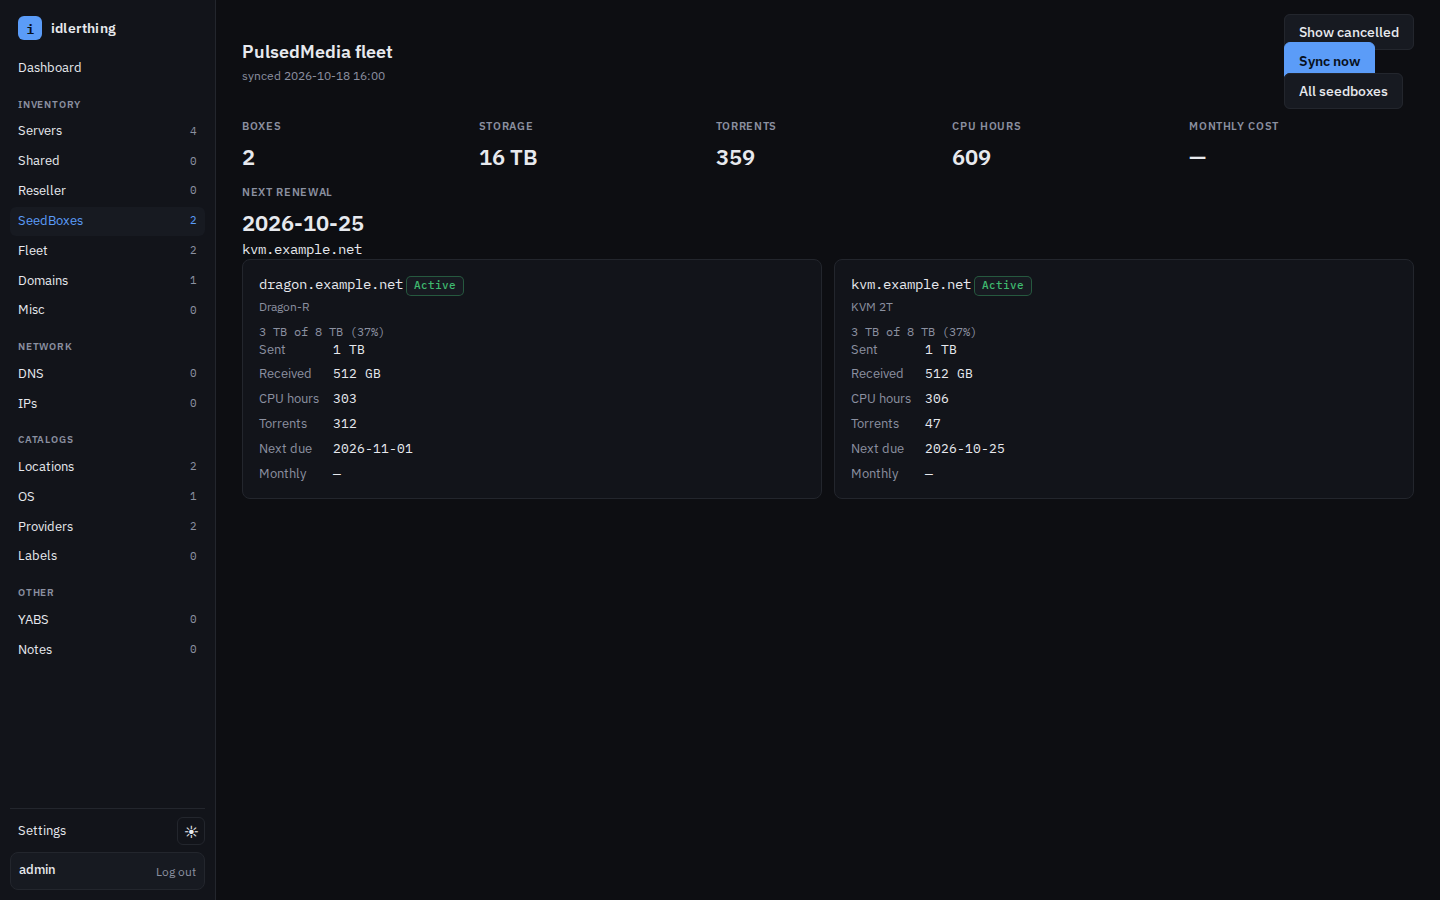
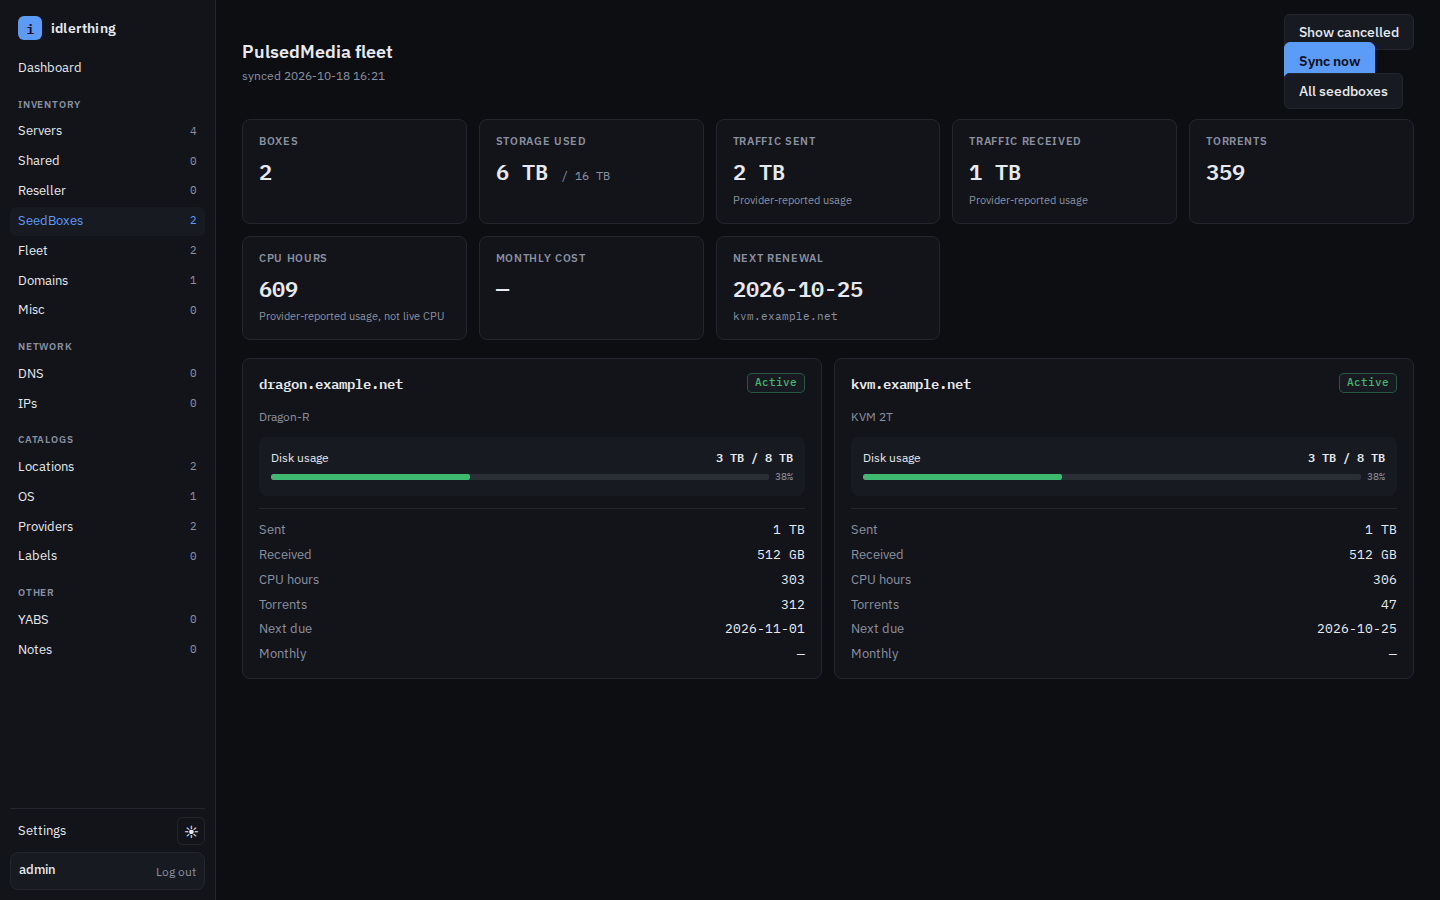
Improve provider fleet usage overview

diff --git a/internal/web/assets/templates/seedbox_fleet.html b/internal/web/assets/templates/seedbox_fleet.html
@@ -50,28 +50,30 @@ along with this program. If not, see <https://www.gnu.org/licenses/>.
 </div>
 {{else}}
 
-<div class="stat-grid">
-  <div class="stat"><div class="stat-label">Boxes</div><div class="stat-value">{{$v.Totals.Boxes}}</div></div>
-  <div class="stat"><div class="stat-label">Storage</div><div class="stat-value">{{fmtMB $v.Totals.StorageMB}}</div></div>
-  <div class="stat"><div class="stat-label">Torrents</div><div class="stat-value">{{$v.Totals.Torrents}}</div></div>
-  <div class="stat"><div class="stat-label">CPU hours</div><div class="stat-value">{{$v.Totals.CPUHours}}</div></div>
-  <div class="stat">
+<div class="stat-grid fleet-stats">
+  <div class="stat-card"><div class="stat-label">Boxes</div><div class="stat-value mono">{{$v.Totals.Boxes}}</div></div>
+  <div class="stat-card"><div class="stat-label">Storage used</div><div class="stat-value mono">{{fmtMB $v.Totals.StorageUsedMB}} <small>/ {{fmtMB $v.Totals.StorageMB}}</small></div></div>
+  <div class="stat-card"><div class="stat-label">Traffic sent</div><div class="stat-value mono">{{fmtMB $v.Totals.SentMB}}</div><div class="stat-sub">Provider-reported usage</div></div>
+  <div class="stat-card"><div class="stat-label">Traffic received</div><div class="stat-value mono">{{fmtMB $v.Totals.ReceivedMB}}</div><div class="stat-sub">Provider-reported usage</div></div>
+  <div class="stat-card"><div class="stat-label">Torrents</div><div class="stat-value mono">{{$v.Totals.Torrents}}</div></div>
+  <div class="stat-card"><div class="stat-label">CPU hours</div><div class="stat-value mono">{{$v.Totals.CPUHours}}</div><div class="stat-sub">Provider-reported usage, not live CPU</div></div>
+  <div class="stat-card">
     <div class="stat-label">Monthly cost</div>
-    <div class="stat-value">{{if $v.Totals.MonthlyUSD}}${{printf "%.2f" $v.Totals.MonthlyUSD}}{{else}}—{{end}}</div>
+    <div class="stat-value mono">{{if $v.Totals.MonthlyUSD}}${{printf "%.2f" $v.Totals.MonthlyUSD}}{{else}}—{{end}}</div>
   </div>
-  <div class="stat">
+  <div class="stat-card">
     <div class="stat-label">Next renewal</div>
-    <div class="stat-value">{{if $v.Totals.NextDue}}{{$v.Totals.NextDue}}{{else}}—{{end}}</div>
+    <div class="stat-value mono">{{if $v.Totals.NextDue}}{{$v.Totals.NextDue}}{{else}}—{{end}}</div>
     {{if $v.Totals.NextDueBox}}<div class="stat-sub mono">{{$v.Totals.NextDueBox}}</div>{{end}}
   </div>
 </div>
 
 {{if $v.Boxes}}
-<div class="card-grid">
+<div class="card-grid fleet-grid">
   {{range $v.Boxes}}
-  <div class="panel fleet-card{{if .Cancelled}} is-muted{{end}}">
+  <article class="panel fleet-card{{if .Cancelled}} is-muted{{end}}">
     <div class="fleet-card-head">
-      <span class="mono">{{.Hostname}}</span>
+      <strong class="mono fleet-host">{{.Hostname}}</strong>
       {{if .Cancelled}}
       <span class="badge badge-off">cancelled</span>
       {{else if .Status}}
@@ -80,18 +82,14 @@ along with this program. If not, see <https://www.gnu.org/licenses/>.
     </div>
     <div class="page-sub">{{if .Product}}{{.Product}}{{else}}—{{end}}</div>
 
-    {{if .HasQuota}}
-    <div class="meter" role="img" aria-label="disk {{.DiskPct}}% used">
-      <div class="meter-fill" style="width: {{if gt .DiskPct 100}}100{{else}}{{.DiskPct}}{{end}}%"></div>
+    <div class="fleet-storage">
+      <div class="fleet-storage-head"><span>Disk usage</span><strong class="mono">{{if .HasQuota}}{{fmtMB .DiskUsedMB}} / {{fmtMB .DiskQuotaMB}}{{else if .DiskUsedMB}}{{fmtMB .DiskUsedMB}} used{{else}}no quota reported{{end}}</strong></div>
+      {{if .DiskMeter}}
+      <div role="img" aria-label="Disk usage {{.DiskPct}}% used">{{template "meter" .DiskMeter}}</div>
+      {{end}}
     </div>
-    <div class="mono page-sub">{{fmtMB .DiskUsedMB}} of {{fmtMB .DiskQuotaMB}} ({{.DiskPct}}%)</div>
-    {{else if .DiskUsedMB}}
-    <div class="mono page-sub">{{fmtMB .DiskUsedMB}} used</div>
-    {{else}}
-    <div class="page-sub">no quota reported</div>
-    {{end}}
 
-    <dl class="kv">
+    <dl class="kv fleet-metrics">
       <dt>Sent</dt><dd class="mono">{{.Sent}}</dd>
       <dt>Received</dt><dd class="mono">{{.Received}}</dd>
       <dt>CPU hours</dt><dd class="mono">{{.CPUHours}}</dd>
@@ -99,7 +97,7 @@ along with this program. If not, see <https://www.gnu.org/licenses/>.
       <dt>Next due</dt><dd class="mono">{{if .NextDue}}{{.NextDue}}{{else}}—{{end}}</dd>
       <dt>Monthly</dt><dd class="mono">{{if .Monthly}}{{.Monthly}}{{else}}—{{end}}</dd>
     </dl>
-  </div>
+  </article>
   {{end}}
 </div>
 {{else}}

diff --git a/internal/web/assets/static/app.css b/internal/web/assets/static/app.css
@@ -281,6 +281,21 @@ h1 { font-size: 18px; font-weight: 600; margin: 0; }
 }
 .stat-value { font-size: 22px; font-weight: 600; }
 
+/* Provider fleet: reuse the app's stat cards and CSP-safe meters. */
+.fleet-stats { margin-bottom: 18px; }
+.fleet-stats .stat-value small { font-size: 12px; color: var(--mut); font-weight: 400; }
+.stat-sub { margin-top: 5px; font-size: 11px; color: var(--mut); }
+.fleet-grid { grid-template-columns: repeat(auto-fit, minmax(min(340px, 100%), 1fr)); }
+.fleet-card { display: grid; gap: 12px; min-width: 0; }
+.fleet-card.is-muted { opacity: .7; }
+.fleet-card-head { display: flex; align-items: flex-start; justify-content: space-between; gap: 8px; }
+.fleet-host { overflow-wrap: anywhere; }
+.fleet-storage { padding: 12px; background: var(--panel2); border-radius: var(--radius); }
+.fleet-storage-head { display: flex; justify-content: space-between; gap: 8px; flex-wrap: wrap; font-size: 12px; }
+.fleet-storage .meter-track, .fleet-storage .meter-fill { height: 6px; }
+.fleet-metrics { border-top: 1px solid var(--bd); padding-top: 12px; }
+.fleet-metrics dd { text-align: right; overflow-wrap: anywhere; }
+
 /* ---------- Flash banner ---------- */
 .flash {
   border: 1px solid var(--bd);

diff --git a/internal/web/fleet.go b/internal/web/fleet.go
@@ -44,11 +44,14 @@ type fleetBox struct {
 	DiskQuotaMB int64
 	HasQuota    bool
 	DiskPct     int
+	DiskMeter   *meterView
 
-	Sent     string
-	Received string
-	CPUHours int64
-	Torrents int64
+	Sent       string
+	Received   string
+	SentMB     int64
+	ReceivedMB int64
+	CPUHours   int64
+	Torrents   int64
 
 	NextDue string
 	Monthly string
@@ -57,13 +60,16 @@ type fleetBox struct {
 // fleetTotals are the headline tiles. They count active services only: a
 // cancelled service's price is not money being spent.
 type fleetTotals struct {
-	Boxes      int
-	StorageMB  int64
-	Torrents   int64
-	CPUHours   int64
-	MonthlyUSD float64
-	NextDue    string
-	NextDueBox string
+	Boxes         int
+	StorageMB     int64
+	StorageUsedMB int64
+	SentMB        int64
+	ReceivedMB    int64
+	Torrents      int64
+	CPUHours      int64
+	MonthlyUSD    float64
+	NextDue       string
+	NextDueBox    string
 }
 
 // fleetView is the template payload.
@@ -196,6 +202,8 @@ func buildFleetBox(hostname string, svc model.PMService, diskMB sql.NullInt64, d
 		DiskQuotaMB: svc.DiskQuotaBytes / (1024 * 1024),
 		Sent:        fmtMB(svc.SentBytes / (1024 * 1024)),
 		Received:    fmtMB(svc.ReceivedBytes / (1024 * 1024)),
+		SentMB:      svc.SentBytes / (1024 * 1024),
+		ReceivedMB:  svc.ReceivedBytes / (1024 * 1024),
 		CPUHours:    svc.CPUHours,
 		Torrents:    svc.Torrents,
 	}
@@ -208,6 +216,7 @@ func buildFleetBox(hostname string, svc model.PMService, diskMB sql.NullInt64, d
 	if box.DiskQuotaMB > 0 {
 		box.HasQuota = true
 		box.DiskPct = int(box.DiskUsedMB * 100 / box.DiskQuotaMB)
+		box.DiskMeter = meter(float64(box.DiskUsedMB) * 100 / float64(box.DiskQuotaMB))
 	}
 	if monthlyUSD > 0 {
 		box.Monthly = "$" + strconv.FormatFloat(monthlyUSD, 'f', 2, 64)
@@ -224,6 +233,9 @@ func fleetTiles(boxes []fleetBox) fleetTotals {
 		}
 		t.Boxes++
 		t.StorageMB += b.DiskQuotaMB
+		t.StorageUsedMB += b.DiskUsedMB
+		t.SentMB += b.SentMB
+		t.ReceivedMB += b.ReceivedMB
 		t.Torrents += b.Torrents
 		t.CPUHours += b.CPUHours
 		if b.Monthly != "" {

diff --git a/internal/web/fleet_test.go b/internal/web/fleet_test.go
@@ -99,6 +99,35 @@ func fleetFixtureRates(t *testing.T, database *sql.DB, srv *Server) (providerID 
 	return providerID
 }
 
+func TestFleetUsagePresentation(t *testing.T) {
+	ts, database, srv := newTestServerFull(t)
+	fleetFixtureRates(t, database, srv)
+	client := authedClient(t, ts)
+	resp, err := client.Get(ts.URL + "/seedboxes/fleet")
+	if err != nil {
+		t.Fatal(err)
+	}
+	defer resp.Body.Close()
+	body := readBody(t, resp)
+	for _, label := range []string{"Storage used", "Traffic sent", "Traffic received", "Disk usage", "aria-label=\"Disk usage", "w5", "Provider-reported usage, not live CPU"} {
+		if !strings.Contains(body, label) {
+			t.Errorf("fleet missing %q", label)
+		}
+	}
+	if strings.Contains(body, "style=\"width:") {
+		t.Error("fleet meter must use the existing CSP-safe width classes")
+	}
+}
+
+func TestFleetTotalsExcludeCancelledUsage(t *testing.T) {
+	active := fleetBox{DiskUsedMB: 4, DiskQuotaMB: 10, SentMB: 7, ReceivedMB: 3}
+	cancelled := fleetBox{Cancelled: true, DiskUsedMB: 100, DiskQuotaMB: 200, SentMB: 300, ReceivedMB: 400}
+	totals := fleetTiles([]fleetBox{active, cancelled})
+	if totals.StorageUsedMB != 4 || totals.StorageMB != 10 || totals.SentMB != 7 || totals.ReceivedMB != 3 {
+		t.Fatalf("cancelled box contributed usage to totals: %+v", totals)
+	}
+}
+
 func TestFleetRequiresLogin(t *testing.T) {
 	ts, database := newTestServer(t)
 	fleetFixture(t, database)
